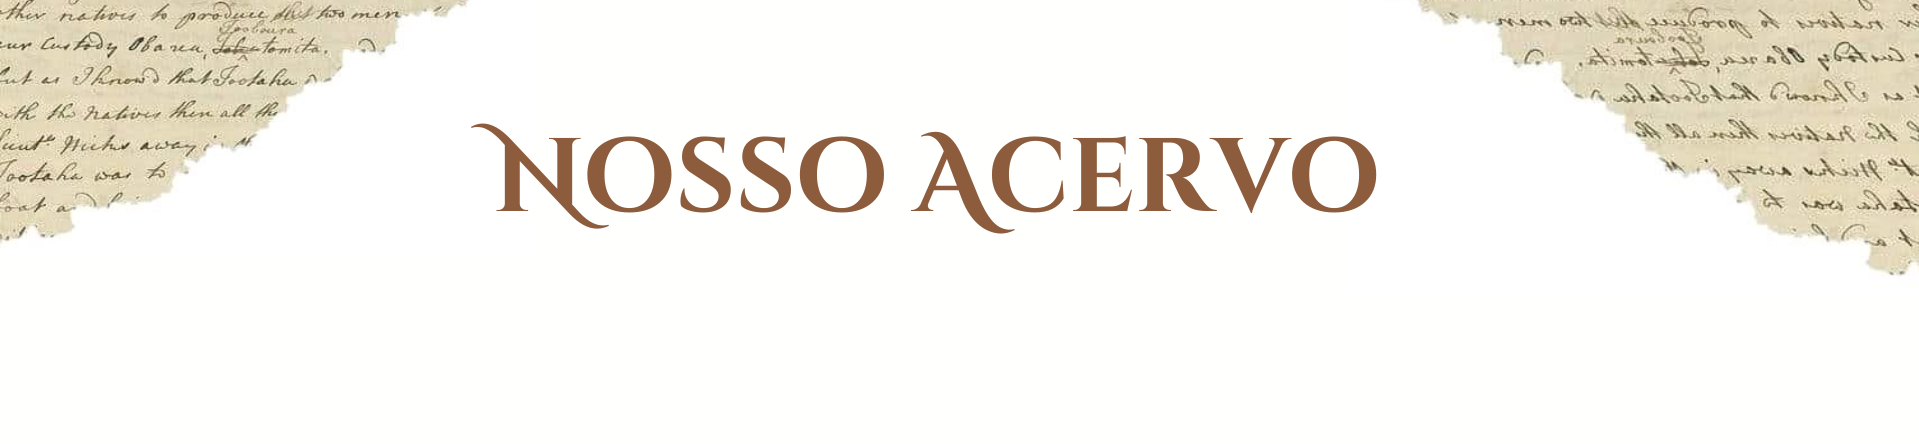
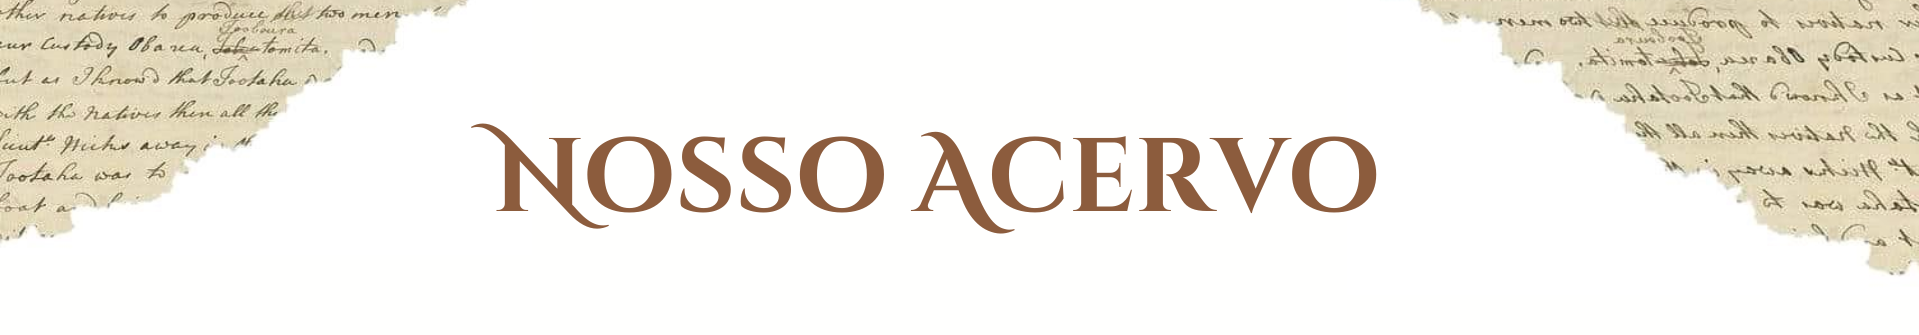
Função de filtro dos livros no acervo

Changed region(s): [[0.246, 0.2687, 0.7379, 0.6866], [0.7379, 0.0, 1.0, 0.8358], [0.0, 0.0, 0.246, 0.7164]]

diff --git a/src/app/acervo/page.tsx b/src/app/acervo/page.tsx
@@ -1,9 +1,10 @@
-'use client'
+"use client"
 
 import BarraNavegacao from "@/components/BarraNavegacao/index";
 import style from './style.module.css'
 import Rodape from "@/components/Rodape/index"
 import BannerAcervo from 'public/BannerAcervo.png'
+import excluir from 'public/excluir.png'
 import Image from "next/image"
 import Botao from "@/components/Botao/index"
 import { api } from "@/app/services/api";
@@ -14,6 +15,9 @@ interface Livros {
   id: number;
   cover: string;
   nome_livro: string;
+  autor: number;
+  editora: number;
+  categoria: number;
 }
 
 interface Autor {
@@ -35,6 +39,10 @@ export default function Acervo() {
   const [autor, setAutor] = useState<Autor[]>([]);
   const [editora, setEditora] = useState<Editora[]>([]);
   const [categoria, setCategoria] = useState<Categoria[]>([]);
+  const [selectedLivro, setSelectedLivro] = useState<string>("");
+  const [selectedAutor, setSelectedAutor] = useState<number | null>(null);
+  const [selectedEditora, setSelectedEditora] = useState<number | null>(null);
+  const [selectedCategoria, setSelectedCategoria] = useState<number | null>(null);
   const [currentPage, setCurrentPage] = useState(1);
   const [booksPerPage, setBooksPerPage] = useState(21);
 
@@ -81,12 +89,60 @@ export default function Acervo() {
     getEditora();
   }, []);
 
+  const handleFilter = () => {
+    // Aplicar filtros aos livros
+    let filteredBooks = livros;
+
+    if (selectedAutor !== null) {
+      filteredBooks = filteredBooks.filter(livro => livro.autor === selectedAutor);
+    }
+
+    if (selectedEditora !== null) {
+      filteredBooks = filteredBooks.filter(livro => livro.editora === selectedEditora);
+    }
+
+    if (selectedCategoria !== null) {
+      filteredBooks = filteredBooks.filter(livro => livro.categoria === selectedCategoria);
+    }
+    if (selectedLivro.trim() !== "") {
+      filteredBooks = filteredBooks.filter(livro =>
+        livro.nome_livro.toLowerCase().includes(selectedLivro.toLowerCase())
+      );
+    }
+
+    return filteredBooks;
+  }
+
   const indexOfLastBook = currentPage * booksPerPage;
   const indexOfFirstBook = indexOfLastBook - booksPerPage;
-  const currentBooks = livros.slice(indexOfFirstBook, indexOfLastBook);
+  const currentBooks = handleFilter().slice(indexOfFirstBook, indexOfLastBook);
+
+  // Função para resetar os campos do filtro
+  const resetallFilters = () => {
+    setSelectedLivro("");
+    setSelectedAutor(null);
+    setSelectedCategoria(null);
+    setSelectedEditora(null);
+  };
+
+  const resetFiltersLivro = () => {
+    setSelectedLivro("");
+  };
+
+  const resetFiltersAutor = () => {
+    setSelectedAutor(null);
+  };
+
+  const resetFiltersCategoria = () => {
+    setSelectedCategoria(null);
+  };
+
+  const resetFiltersEditora = () => {
+    setSelectedEditora(null);
+  };
 
   const paginate = (pageNumber: number) => {
-    if (pageNumber >= 1 && pageNumber <= Math.ceil(livros.length / booksPerPage)) {
+    if (pageNumber >= 1 && pageNumber <= Math.ceil(handleFilter().length / booksPerPage)) {
       setCurrentPage(pageNumber);
     }
   }
@@ -96,44 +152,118 @@ export default function Acervo() {
       <BarraNavegacao />
       <div className={style.body}>
         <Image className={style.imagembanner} src={BannerAcervo} alt="BannerAcervo" />
-        <div id="camposfiltrar" style={{ color: "#8C5C3D", display: "flex", alignItems: "center", justifyContent: "center", margin: "10px auto", maxWidth: "700px" }}>
-          <div style={{ flex: "2" }}>
-            <select className="select select-bordered mt-2 rounded-lg border border-gray-200 bg-white py-2.5 text-gray-700 focus:border-blue-400 focus:outline-none focus:ring focus:ring-blue-300 focus:ring-opacity-40" style={{ width: "100%", border: "1px solid #8c5c3d" }}>
-              <option selected disabled>Livro</option>
-              {livros.map(({ id, nome_livro }) => (
-                <option value={id} key={id}>{nome_livro}</option>
-              ))}
-            </select>
-          </div>
+        <div id="camposfiltrar" style={{ color: "#8C5C3D", display: "flex", alignItems: "center", justifyContent: "center", margin: "10px auto", maxWidth: "900px" }}>
           <div style={{ flex: "2", marginLeft: "10px", marginRight: "10px" }}>
-            <select className="select select-bordered mt-2 rounded-lg border border-gray-200 bg-white py-2.5 text-gray-700 focus:border-blue-400 focus:outline-none focus:ring focus:ring-blue-300 focus:ring-opacity-40" style={{ width: "100%", border: "1px solid #8c5c3d" }}>
-              <option selected disabled>Categoria</option>
-              {categoria.map(({ id, nome_categoria }) => (
-                <option value={id} key={id}>{nome_categoria}</option>
+            <select
+              className="select select-bordered mt-2 rounded-lg border border-gray-200 bg-white py-2.5 text-gray-700 focus:border-blue-400 focus:outline-none focus:ring focus:ring-blue-300 focus:ring-opacity-40"
+              style={{ width: "100%", border: "1px solid #8c5c3d" }}
+              value={selectedLivro || ""}
+              onChange={(e) => setSelectedLivro(e.target.value)}
+            >
+              <option value="" disabled>Livro</option>
+              {livros.map(({ nome_livro }) => (
+                <option value={nome_livro} key={nome_livro}>{nome_livro}</option>
               ))}
-            </select>
+            </select> 
           </div>
-          <div style={{ flex: "2" }}>
-            <select className="select select-bordered mt-2 rounded-lg border border-gray-200 bg-white py-2.5 text-gray-700 focus:border-blue-400 focus:outline-none focus:ring focus:ring-blue-300 focus:ring-opacity-40" style={{ width: "100%", border: "1px solid #8c5c3d" }}>
+           {/*Botão de resetar*/}
+           <div style={{ cursor: "pointer", display: "flex", alignItems: "center" }}>
+            <div onClick={resetFiltersLivro}>
+              <Image
+                src={excluir}
+                alt="Descrição da Imagem"
+                width={20}
+                height={20}
+                style={{ marginRight: "15px", marginTop:"10px" }}
+                onClick={resetFiltersLivro}
+              />
+            </div>
+          </div>
+
+
+          <div style={{ flex: "2", marginLeft: "10px", marginRight: "10px" }}>
+            <select
+              className="select select-bordered mt-2 rounded-lg border border-gray-200 bg-white py-2.5 text-gray-700 focus:border-blue-400 focus:outline-none focus:ring focus:ring-blue-300 focus:ring-opacity-40"
+              style={{ width: "100%", border: "1px solid #8c5c3d" }}
+              onChange={(e) => setSelectedAutor(Number(e.target.value))}
+            >
               <option selected disabled>Autor</option>
               {autor.map(({ id, nome_autor }) => (
                 <option value={id} key={id}>{nome_autor}</option>
               ))}
             </select>
           </div>
+          {/*Botão de resetar*/}
+          <div style={{ cursor: "pointer", display: "flex", alignItems: "center" }}>
+            <div onClick={resetFiltersAutor}>
+              <Image
+                src={excluir}
+                alt="Descrição da Imagem"
+                width={20}
+                height={20}
+                style={{ marginRight: "15px", marginTop:"10px" }}
+                onClick={resetFiltersAutor}
+              />
+            </div>
+          </div>
+
+
           <div style={{ flex: "2", marginLeft: "10px", marginRight: "10px" }}>
-            <select className="select select-bordered mt-2 rounded-lg border border-gray-200 bg-white py-2.5 text-gray-700 focus:border-blue-400 focus:outline-none focus:ring focus:ring-blue-300 focus:ring-opacity-40" style={{ width: "100%", border: "1px solid #8c5c3d" }}>
-              <option selected disabled>Editora</option>
+            <select
+              className="select select-bordered mt-2 rounded-lg border border-gray-200 bg-white py-2.5 text-gray-700 focus:border-blue-400 focus:outline-none focus:ring focus:ring-blue-300 focus:ring-opacity-40"
+              style={{ width: "100%", border: "1px solid #8c5c3d" }}
+              onChange={(e) => setSelectedCategoria(Number(e.target.value))}
+            >
+              <option selected disabled>Categoria</option>
+              {categoria.map(({ id, nome_categoria }) => (
+                <option value={id} key={id}>{nome_categoria}</option>
+              ))}
+            </select>
+          </div>
+          {/*Botão de resetar*/}
+          <div style={{ cursor: "pointer", display: "flex", alignItems: "center" }}>
+            <div onClick={resetFiltersCategoria}>
+              <Image
+                src={excluir}
+                alt="Descrição da Imagem"
+                width={20}
+                height={20}
+                style={{ marginRight: "15px", marginTop:"10px" }}
+                onClick={resetFiltersCategoria}
+              />
+            </div>
+          </div>
+
+
+          <div style={{ flex: "2", marginLeft: "10px", marginRight: "10px" }}>
+            <select
+              className="select select-bordered mt-2 rounded-lg border border-gray-200 bg-white py-2.5 text-gray-700 focus:border-blue-400 focus:outline-none focus:ring focus:ring-blue-300 focus:ring-opacity-40"
+              style={{ width: "100%", border: "1px solid #8c5c3d" }}
+              onChange={(e) => setSelectedEditora(Number(e.target.value))}
+            >
+              <option value="" selected disabled>Editora</option>
               {editora.map(({ id, nome_editora }) => (
                 <option value={id} key={id}>{nome_editora}</option>
               ))}
             </select>
           </div>
-          <div style={{ marginLeft: "10px", marginTop:"10px" }}>
-            <Botao>Filtrar</Botao>
+          {/*Botão de resetar*/}
+          <div style={{ cursor: "pointer", display: "flex", alignItems: "center" }}>
+            <div onClick={resetFiltersEditora}>
+              <Image
+                src={excluir}
+                alt="Descrição da Imagem"
+                width={20}
+                height={20}
+                style={{ marginRight: "15px", marginTop:"10px" }}
+                onClick={resetFiltersEditora}
+              />
+            </div>
           </div>
-        </div>
 
+          <Botao funcao={resetallFilters}>Resetar tudo</Botao>
+        
+        </div>
 
         <div className={style.livro}>
           <div>
@@ -141,7 +271,7 @@ export default function Acervo() {
               {currentBooks.map(({ id, nome_livro, cover }) => (
                 <li key={id} className={style.li} style={{ display: "flex", margin: "0 10px", justifyContent: "space-between", flexDirection: "column" }}>
                   <div>
-                    <br /><Image className={style.imagemlivro} src={cover} width={100} height={150} alt="Teste" />
+                    <br /><Image className={style.imagemlivro} src={cover} width={130} height={160} alt="Capa do livro" />
                   </div>
                   <div className={style.titulo}>
                     <p>{nome_livro}</p>
@@ -158,7 +288,7 @@ export default function Acervo() {
         {/* Componente de paginação */}
         <Pagination
           booksPerPage={booksPerPage}
-          totalBooks={livros.length}
+          totalBooks={handleFilter().length}
           paginate={paginate}
           currentPage={currentPage}
         />
@@ -176,14 +306,14 @@ const Pagination = ({ booksPerPage, totalBooks, paginate, currentPage }) => {
 
   return (
     <nav>
-      <ul className="pagination" style={{ color: '#8C5C3D', display:'flex', justifyContent: 'center', padding:'30px' }} >
+      <ul className="pagination" style={{ color: '#8C5C3D', display: 'flex', justifyContent: 'center', padding: '30px' }} >
         <li className={currentPage === 1 ? 'page-item disabled' : 'page-item'}>
           <a onClick={() => paginate(currentPage - 1)} href="#!" className="page-link relative ml-3 inline-flex items-center rounded-md border border-gray-300 bg-white px-4 py-2 text-sm font-medium text-gray-700 hover:bg-gray-50">
             Anterior
           </a>
-        </li><br/>
+        </li><br />
         {pageNumbers.map(number => (
-          <li key={number} className={currentPage === number ? 'page-item active' : 'page-item'}>  
+          <li key={number} className={currentPage === number ? 'page-item active' : 'page-item'}>
             <a onClick={() => paginate(number)} href="#!" className={`page-link relative inline-flex items-center px-4 py-2 text-sm font-semibold text-gray-900 ring-1 ring-inset ring-gray-300 hover:bg-gray-50 focus:z-20 focus:outline-offset-0 ${currentPage === number ? style.selectedLink : ''}`}>
               {number}
             </a>

diff --git a/src/app/inicial/page.tsx b/src/app/inicial/page.tsx
@@ -37,7 +37,7 @@ export default function Inicial() {
         <div className="max-w-screen-lg p-8 text-center text-white">
           <h2 className="text-4xl mb-7">Quem Somos</h2>
           <p className="text-lg">
-            Surgimos com a necessidade de coletar informações em bibliotecas públicas, pensando em pequenas organizações que podem não ter software de gerenciamento e armazenamento de informações para acervo e empréstimo.
+            Surgimos com a necessidade de coletar informações em bibliotecas públicas, pensando em pequenas organizações que podem não ter software de gerenciamento e armazenamento de informações para acervo.
             <br />
             <br />O objetivo do software é controlar o acesso aos acervos, controlar usuários e produzir relatórios gerenciais.
             Tornando os processos mais rápidos e eficientes, beneficiando alunos, professores e instituições, melhorando assim o controle sobre a movimentação de livros.
@@ -54,14 +54,14 @@ export default function Inicial() {
                 <Image src={iconeservicos} width={60} height={180} alt="Icone de livros" />
               </div>
               <h3 className="text-xl font-semibold">Controle de Acervo</h3>
-              <p>Bibliotecas podem registrar todas as informações dos livros, como título, autor, data de lançamento, gênero e outras informações relevantes.</p>
+              <p>Bibliotecas podem registrar todas as informações dos livros,<br/>como título, autor, data de lançamento, gênero e outras informações relevantes.</p>
             </div>
             <div className="mx-auto flex flex-col items-center gap-y-4">
               <div className="mx-auto flex items-center justify-center">
                 <Image src={iconeconsultadolivro} width={60} height={180} alt="Icone de livros" />
               </div>
               <h3 className="text-xl font-semibold">Consultas de obras</h3>
-              <p>Oferece ferramentas de busca para que os usuários possam encontrar livros específicos de várias instituições dentro do acervo.</p>
+              <p>Oferece ferramentas de busca para que os usuários<br/>possam encontrar livros específicos de várias instituições dentro do acervo.</p>
             </div>
             <div className="mx-auto flex flex-col items-center gap-y-4">
               <div className="mx-auto flex items-center justify-center">
@@ -69,7 +69,7 @@ export default function Inicial() {
               </div>
               <h3 className="text-xl font-semibold">Opções de acesso</h3>
               <p>O sistema disponibiliza o acesso ao conteúdo da 
-                obra de forma online, permitindo o download e o acesso no Kindle.</p>
+                obra<br/>de forma online.</p> {/*permitindo o download e o acesso no Kindle.*/}
             </div>
           </dl>
         </div>
@@ -77,23 +77,22 @@ export default function Inicial() {
 
       <section className="flex flex-col lg:flex-row items-center justify-center" style={{ backgroundColor: '#EDD6A0', color: 'black' }}> {/* Adicionando classes items-center e justify-center para centralizar horizontalmente */}
         <div className={`relative lg:w-12/12 overflow-hidden`}>
-          <Image src={comofunciona} width={440} height={180} alt="Como funciona" />
+          <Image src={comofunciona} width={400} height={180} alt="Como funciona" />
         </div>
-        <div className={`relative lg:w-5/12 overflow-hidden ${style.descricaocomofunciona} lg:m-10`} data-te-ripple-init>
+        <div className={`relative lg:w-5/12 overflow-hidden ${style.descricaocomofunciona} lg:m-5`} data-te-ripple-init>
           <div>
             <h2 className="text-3xl font-semibold mb-2" >Como funciona</h2>
           </div>
           <div className={style.frasecomofunciona}>
-            <p>Este sistema permite que os usuários vejam catálogos das bibliotecas que se registrarem no nosso sistema. Nele o bibliotecário poderá criar o catálogo dos livros que consta na sua biblioteca, adicionando todas as informações dos mesmos para que os usuários possam pesquisar por um título e ver informações desse tema e da instituição.</p>
+            <p>Este sistema permite que os usuários vejam catálogos das bibliotecas que se registrarem no nosso sistema. Nele o bibliotecário poderá criar o catálogo dos livros que consta na sua biblioteca, adicionando todas as informações dos mesmos para que os usuários possam pesquisar por um título e ver informações desse tema.</p>
           </div>
         </div>
       </section>
 
-      <section>
-        <div className={style.sectionacervo}>
+        <section className={style.sectionacervo}>
           <a className={style.linkacervo} href="/acervo">Explore o nosso acervo completo</a>
-        </div>
-      </section>
+        </section>
+
 
       <Rodape />
     </div>

diff --git a/src/app/inicial/style.module.css b/src/app/inicial/style.module.css
@@ -147,7 +147,7 @@
 
 .sectionacervo {
   color: #8C5C3D;
-  padding: 10%;
+  padding: 5%;
   text-align: center;
   font-size: 18px;
 }

diff --git a/src/app/acervo/style.module.css b/src/app/acervo/style.module.css
@@ -1,6 +1,7 @@
 .body {
   background-color: #ffffff;
-  min-width: 110.vh;
+  min-width: 100vw;
+  min-height: 78.1vh;
 }
 
 .livro {
